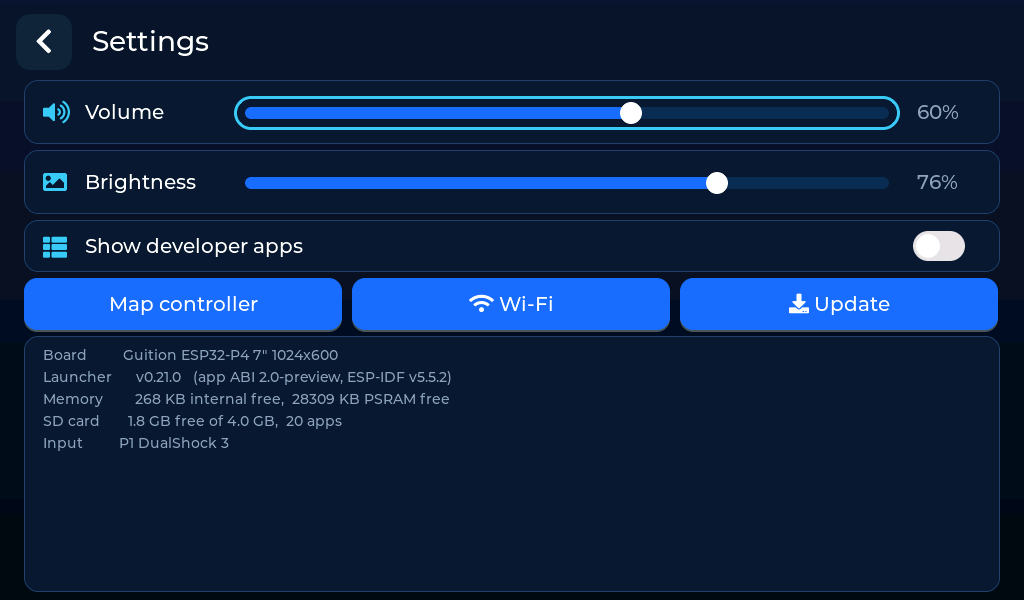
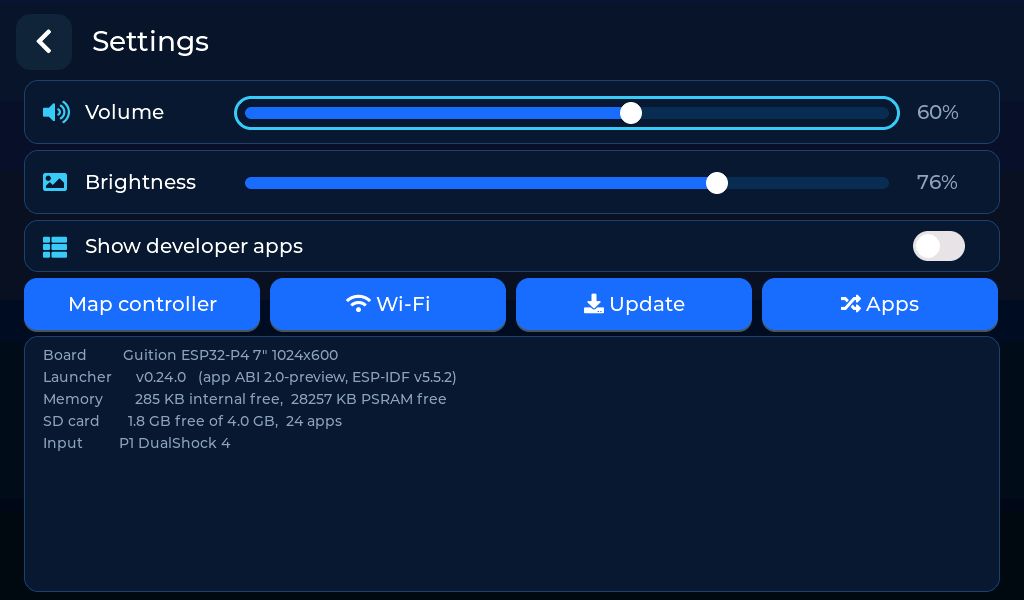
README: new Settings, Wi-Fi and game menu screenshots (launcher 0.24.0)

diff --git a/README.md b/README.md
@@ -52,15 +52,15 @@ ones come from the 7" board, the 800×480 ones from the 4.3" board.
 | ![Home screen with folders](docs/images/folders.png) | ![Games folder](docs/images/games.png) |
 | **Home screen:** folders with their own icons, clock, SD card and settings | **Games folder:** Doom, Duke Nukem 3D, OpenTyrian and Quake |
 | ![Settings](docs/images/settings.png) | ![Date and time](docs/images/date_time.png) |
-| **Settings:** volume, brightness, developer apps, controller mapping, Wi-Fi, update and system information | **Date and time:** on boards with a real-time clock, the home screen clock opens it |
+| **Settings:** volume, brightness, developer apps, controller mapping, Wi-Fi, update, the app catalogue and system information | **Date and time:** on boards with a real-time clock, the home screen clock opens it |
 | ![Paused](docs/images/pause_menu.png) | ![Content browser](docs/images/browser.png) |
 | **HOME** pauses any game under the launcher's menu | **Content browser:** All, Favorites and Recent tabs, with live search. Every emulator gets it from the launcher |
 | ![Game menu](docs/images/game_menu.png) | ![Volume overlay](docs/images/volume.png) |
-| **Emulator menu** over the running game | **Volume overlay,** drawn by the launcher for any app |
+| **Game menu,** the same in every emulator, over the running game | **Volume overlay,** drawn by the launcher for any app |
 | ![Doom](docs/images/doom.png) | ![Quake](docs/images/quake.png) |
 | **Doom** | **Quake** |
 | ![Duke Nukem 3D](docs/images/duke3d.png) | ![Wi-Fi](docs/images/wifi.png) |
-| **Duke Nukem 3D** | **Wi-Fi and time zone,** through the ESP32-C6 |
+| **Duke Nukem 3D** | **Wi-Fi and time zone,** through the ESP32-C6, with the Wi-Fi file manager |
 
 ## The PAPP concept
 
